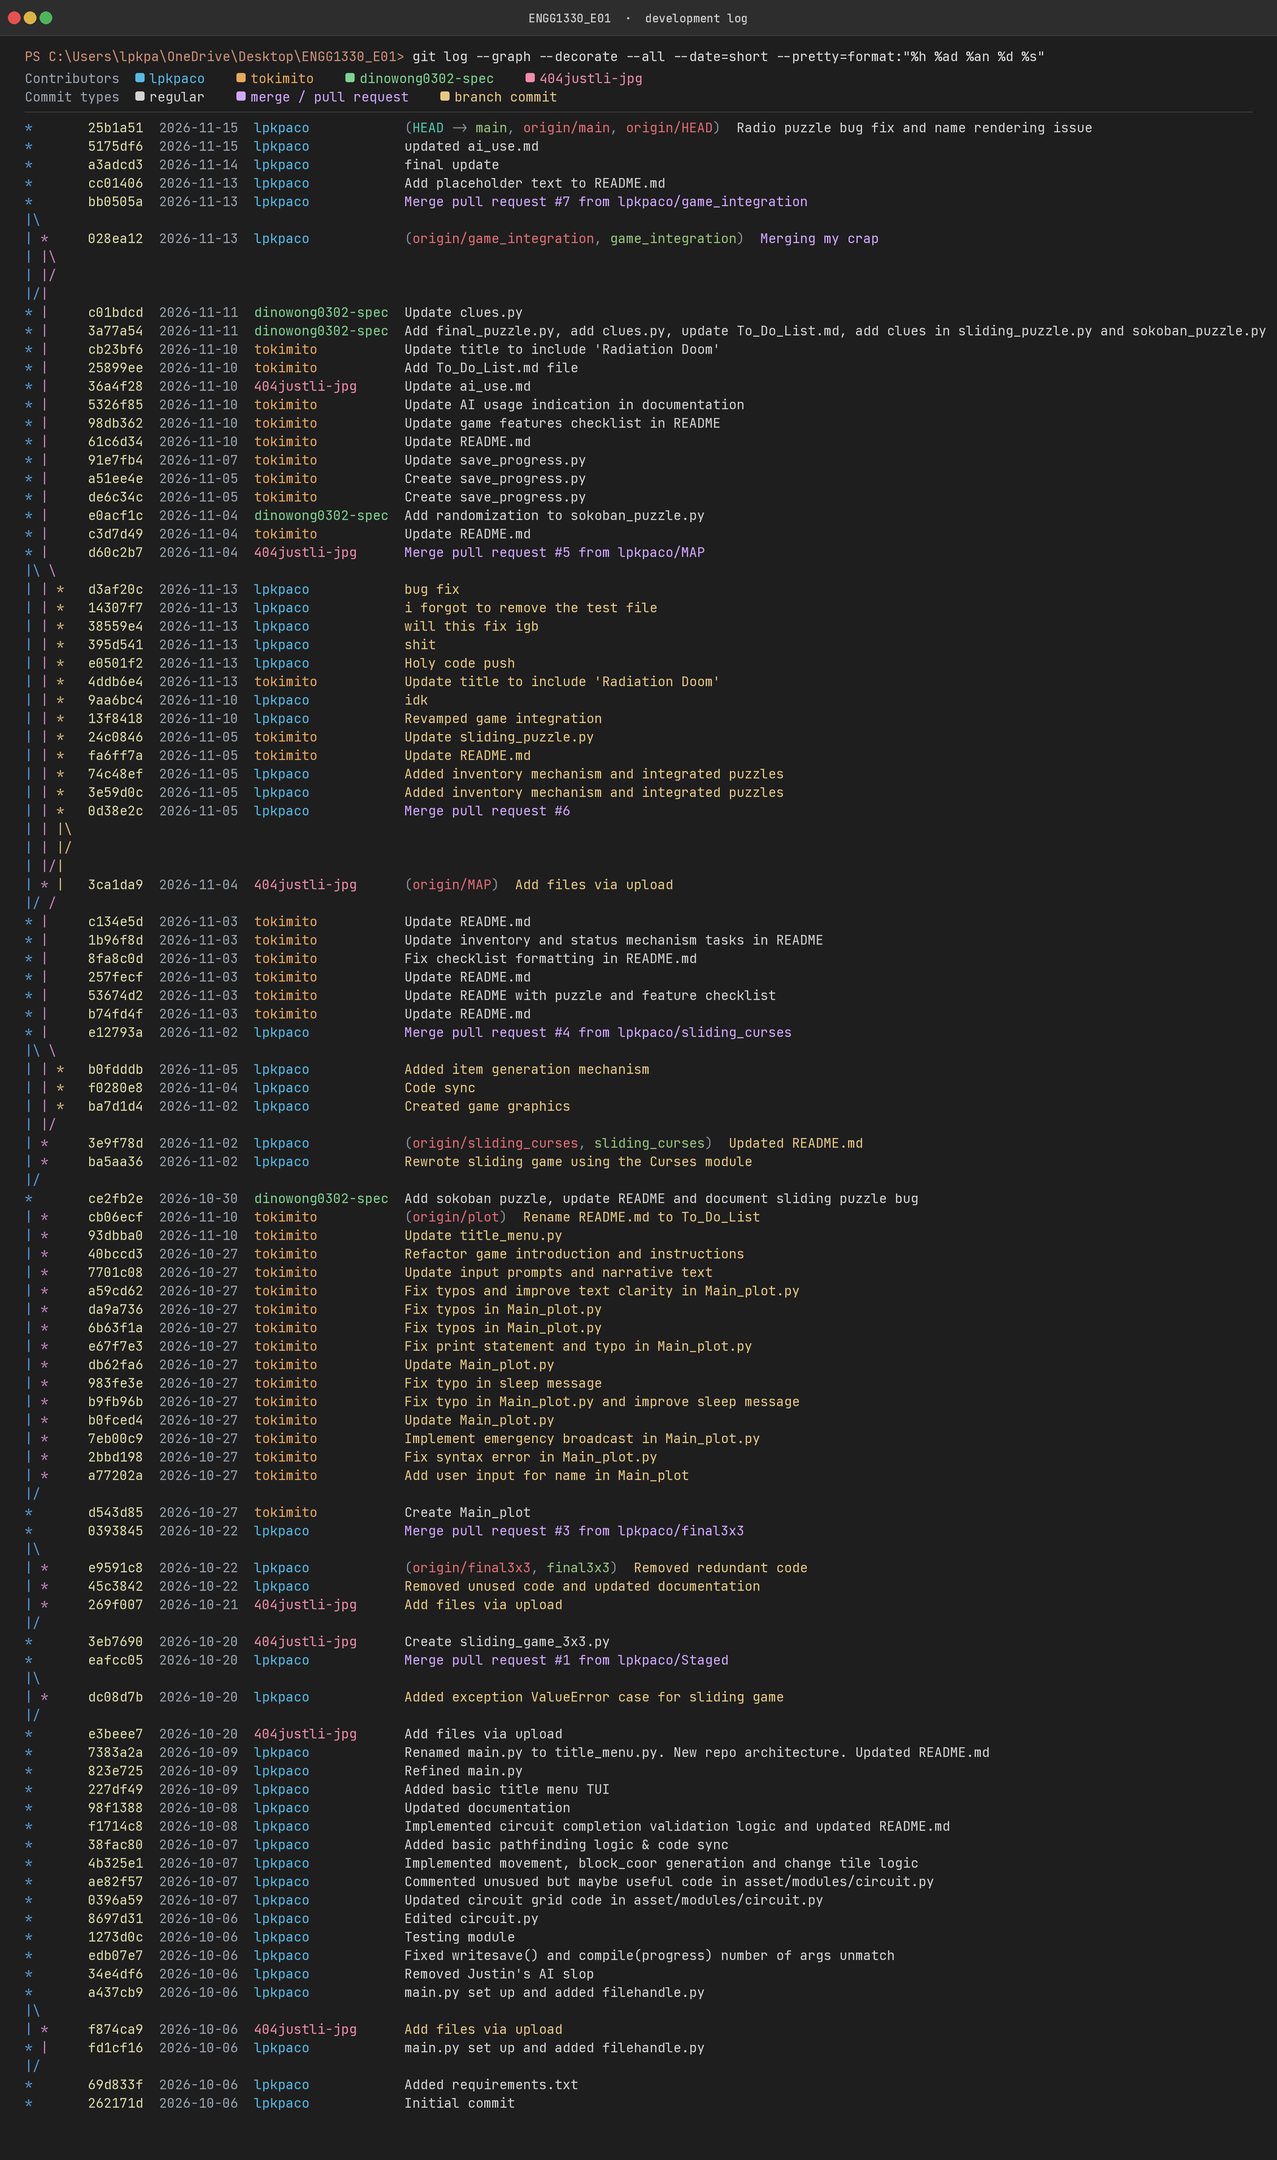
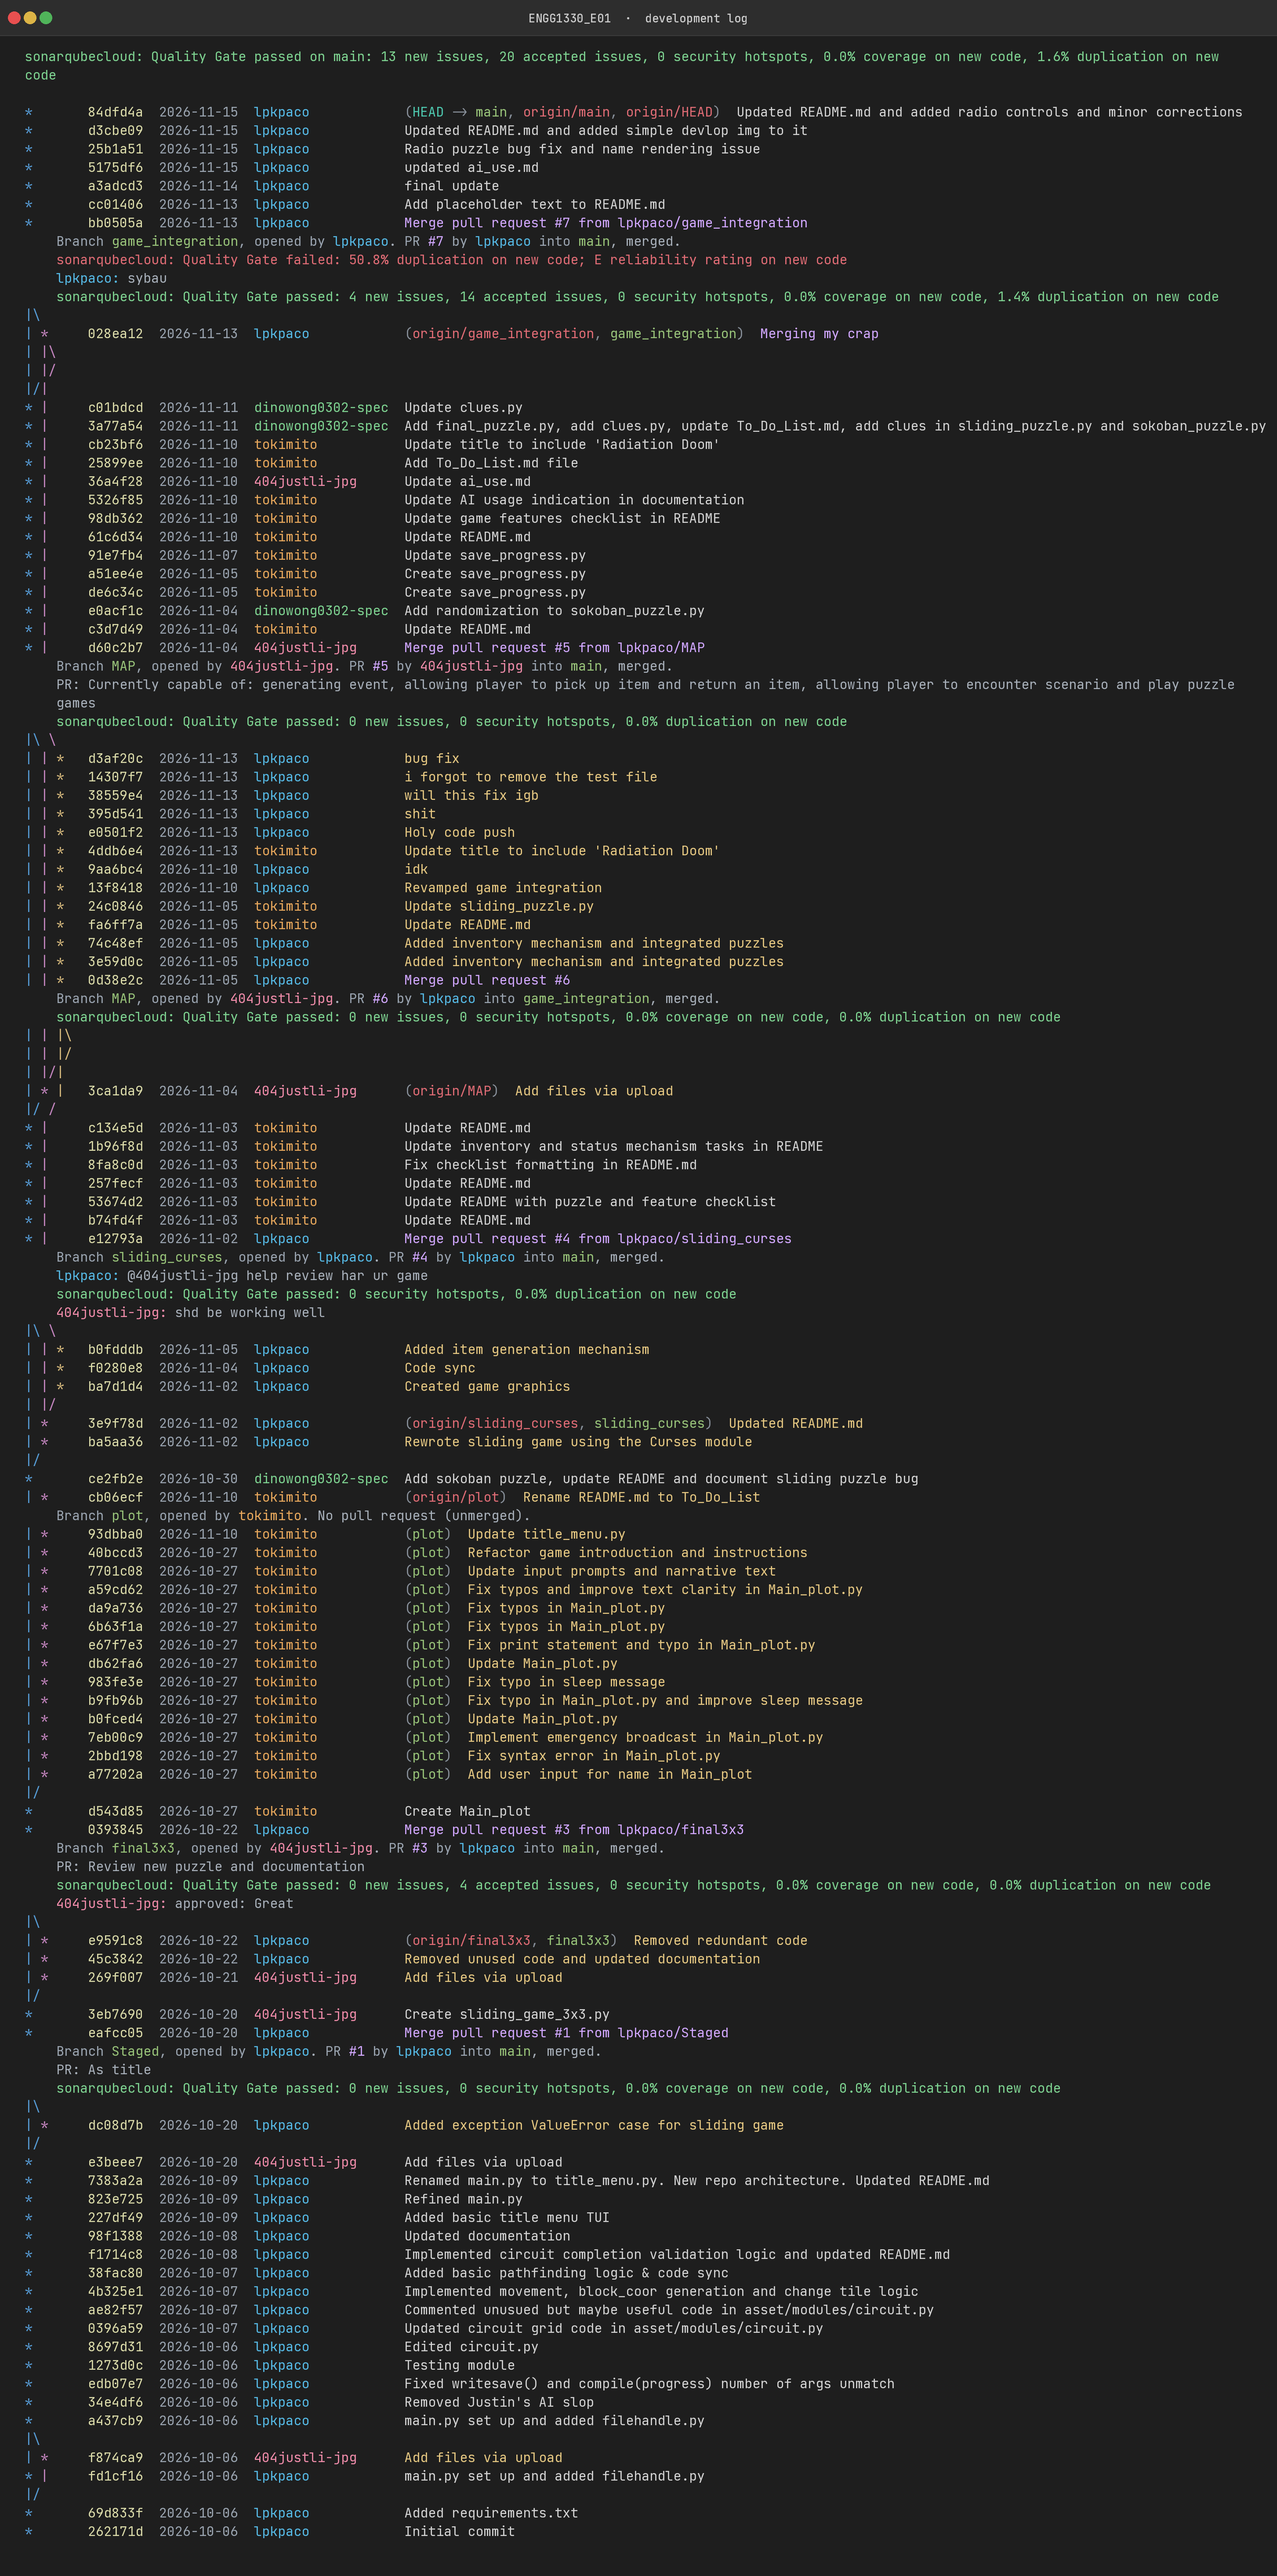
Updated README.md and added pics and gifs to it

diff --git a/README.md b/README.md
@@ -6,6 +6,11 @@ In 7 Days, you play as someone who just locked themselves in a shelter after a n
 
 If you just survive until day 7, a “rescue” team shows up and takes you away. If you find some special items and use them properly, you can unlock the hidden ending.
 
+[![Quality gate status](https://sonarcloud.io/api/project_badges/measure?project=lpkpaco_ENGG1330_E01&metric=alert_status&token=35823b1bfaafea8ea54853f7a5a43787bfafd69f)](https://sonarcloud.io/summary/new_code?id=lpkpaco_ENGG1330_E01)
+[![Reliability Rating](https://sonarcloud.io/api/project_badges/measure?project=lpkpaco_ENGG1330_E01&metric=reliability_rating&token=35823b1bfaafea8ea54853f7a5a43787bfafd69f)](https://sonarcloud.io/summary/new_code?id=lpkpaco_ENGG1330_E01)
+[![Maintainability Rating](https://sonarcloud.io/api/project_badges/measure?project=lpkpaco_ENGG1330_E01&metric=sqale_rating&token=35823b1bfaafea8ea54853f7a5a43787bfafd69f)](https://sonarcloud.io/summary/new_code?id=lpkpaco_ENGG1330_E01)
+[![Security issues](https://sonarcloud.io/api/project_badges/measure?project=lpkpaco_ENGG1330_E01&metric=software_quality_security_issues&token=35823b1bfaafea8ea54853f7a5a43787bfafd69f)](https://sonarcloud.io/summary/new_code?id=lpkpaco_ENGG1330_E01)
+
 ## Name
 
 Liu Peikun
@@ -30,6 +35,8 @@ The game is made for an 80x24 terminal. If your window is smaller than that, it 
 
 On the title menu, press `1` for a new game or `2` to load a save. A new game asks for your name and then plays a short intro. Enter or Space goes to the next line, and Q skips the intro (it also skips later dialogue). On the load screen, press `1`–`9` to open a save, D to delete all saves (it asks you to confirm first), or Q to go back.
 
+<img src="asset/readme/title.png">
+
 Each day you get 4 actions. Keys `1`–`4` move you between Base, the Trash can, the Warehouse and the Store. You can search the last three once per day:
 
 - Trash can: Circuit puzzle
@@ -37,6 +44,8 @@ Each day you get 4 actions. Keys `1`–`4` move you between Base, the Trash can,
 - Store: Sokoban
 
 If you solve the puzzle at that place, you get +7 Radiation. If Radiation hits 100, you die. If you fail, you can come back and try again, and the item is still there. After you solve it (or if there isn’t a puzzle), the item occupies one out of your 4 inventory slots. If your bag is full, the item stays on the map.
+
+<img src="asset/readme/hud.png">
 
 Items you can find: Water, Dog Food, Canned Food, Medicine, and the four radio parts (Circuit Board, Battery, Antenna, Amplifier). Press `5`–`8` to use whatever is in that slot. The effects are in `asset/modules/properties.json`:
 
@@ -66,11 +75,36 @@ Puzzle controls:
 
 - Circuit (Trash can): arrow keys to move, Space to change a tile or check if it’s blocked, Enter to see if the path connects, Q to quit. If your Health is low or Radiation is high, the grid gets bigger and there are more blocked tiles.
 
+<img src="asset/readme/circuit.gif">
+
 - Sliding puzzle (Warehouse): type `1`–`8` to slide that tile into the empty space, Q to quit. The board is shuffled so it should be solvable and not already finished.
+
+<img src="asset/readme/sliding.gif">
 
 - Sokoban: WASD or arrow keys to move, R to restart, Q to quit. Push the boxes and find a valid and unblocked path to the exit to solve the puzzle.
 
+<img src="asset/readme/sokoban.gif">
+
 - Radio: after you craft it with C, W/S or up/down to pick a tube, A/D or left/right to cool or heat it, Q to quit. You have to get all three tubes to 85 C. If one hits 100 it burns out, and each move uses 5% battery, so if the battery runs out you fail. You can press C again to retry.
+
+<img src="asset/readme/radio.gif">
+
+### Endings
+
+If you keep your Health above 0, the game can end in two ways.
+
+If you never fix the radio, day 7 ends with the ordinary ending: the “rescue” team from the broadcast shows up and takes you away. You survived the seven days, but you never find out what the world outside actually looks like.
+
+<img src="asset/readme/ending_ordinary.png">
+
+<details>
+<summary>Hidden ending (spoiler)</summary>
+
+If you gather all four radio parts, craft the radio with C, and get the tubes stable, the hidden ending can trigger from day 6 onwards (press C again, or just end the day). The radio tells you the nuclear war was a lie and day 7 is not a rescue, so you walk out of the shelter instead of waiting. The title is “HIDDEN ENDING : THE LAMB ESCAPES SLAUGHTER.”
+
+<img src="asset/readme/ending_hidden.png">
+
+</details>
 
 ## Container version
 
